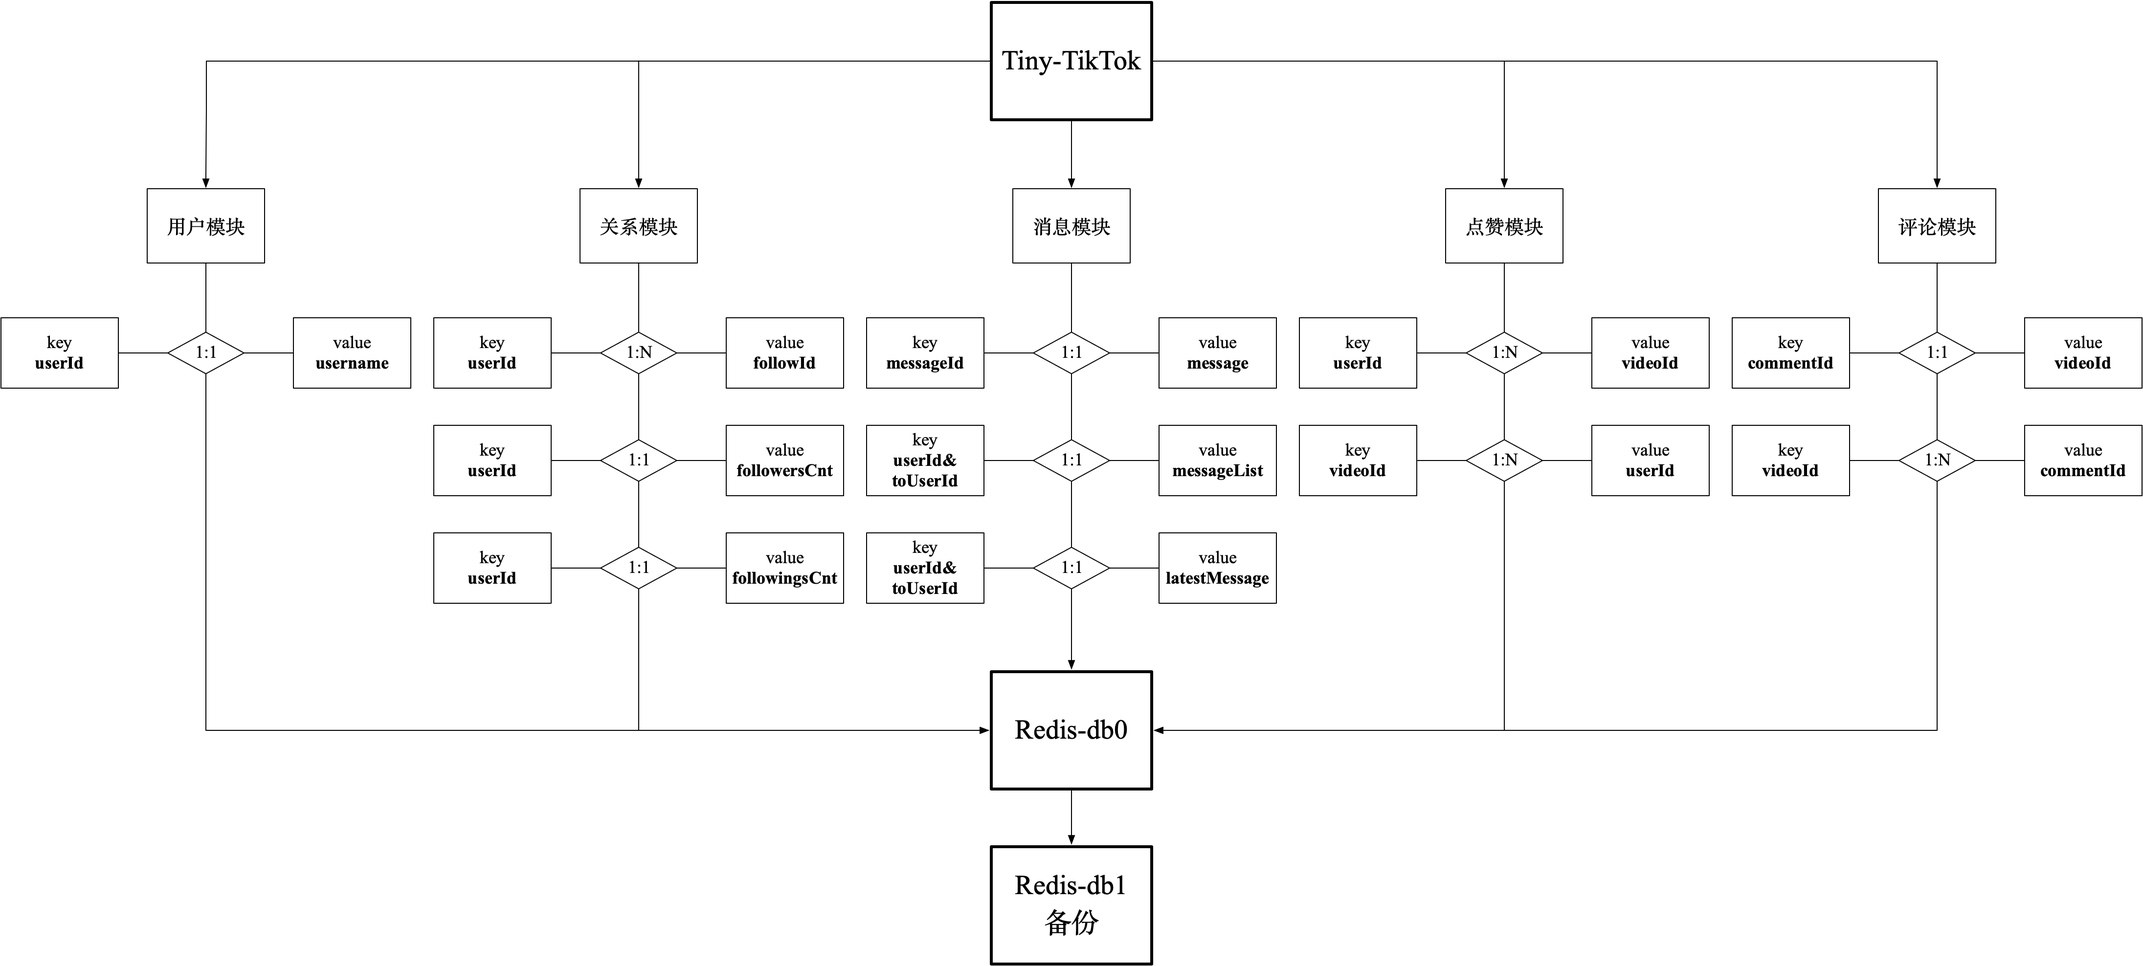
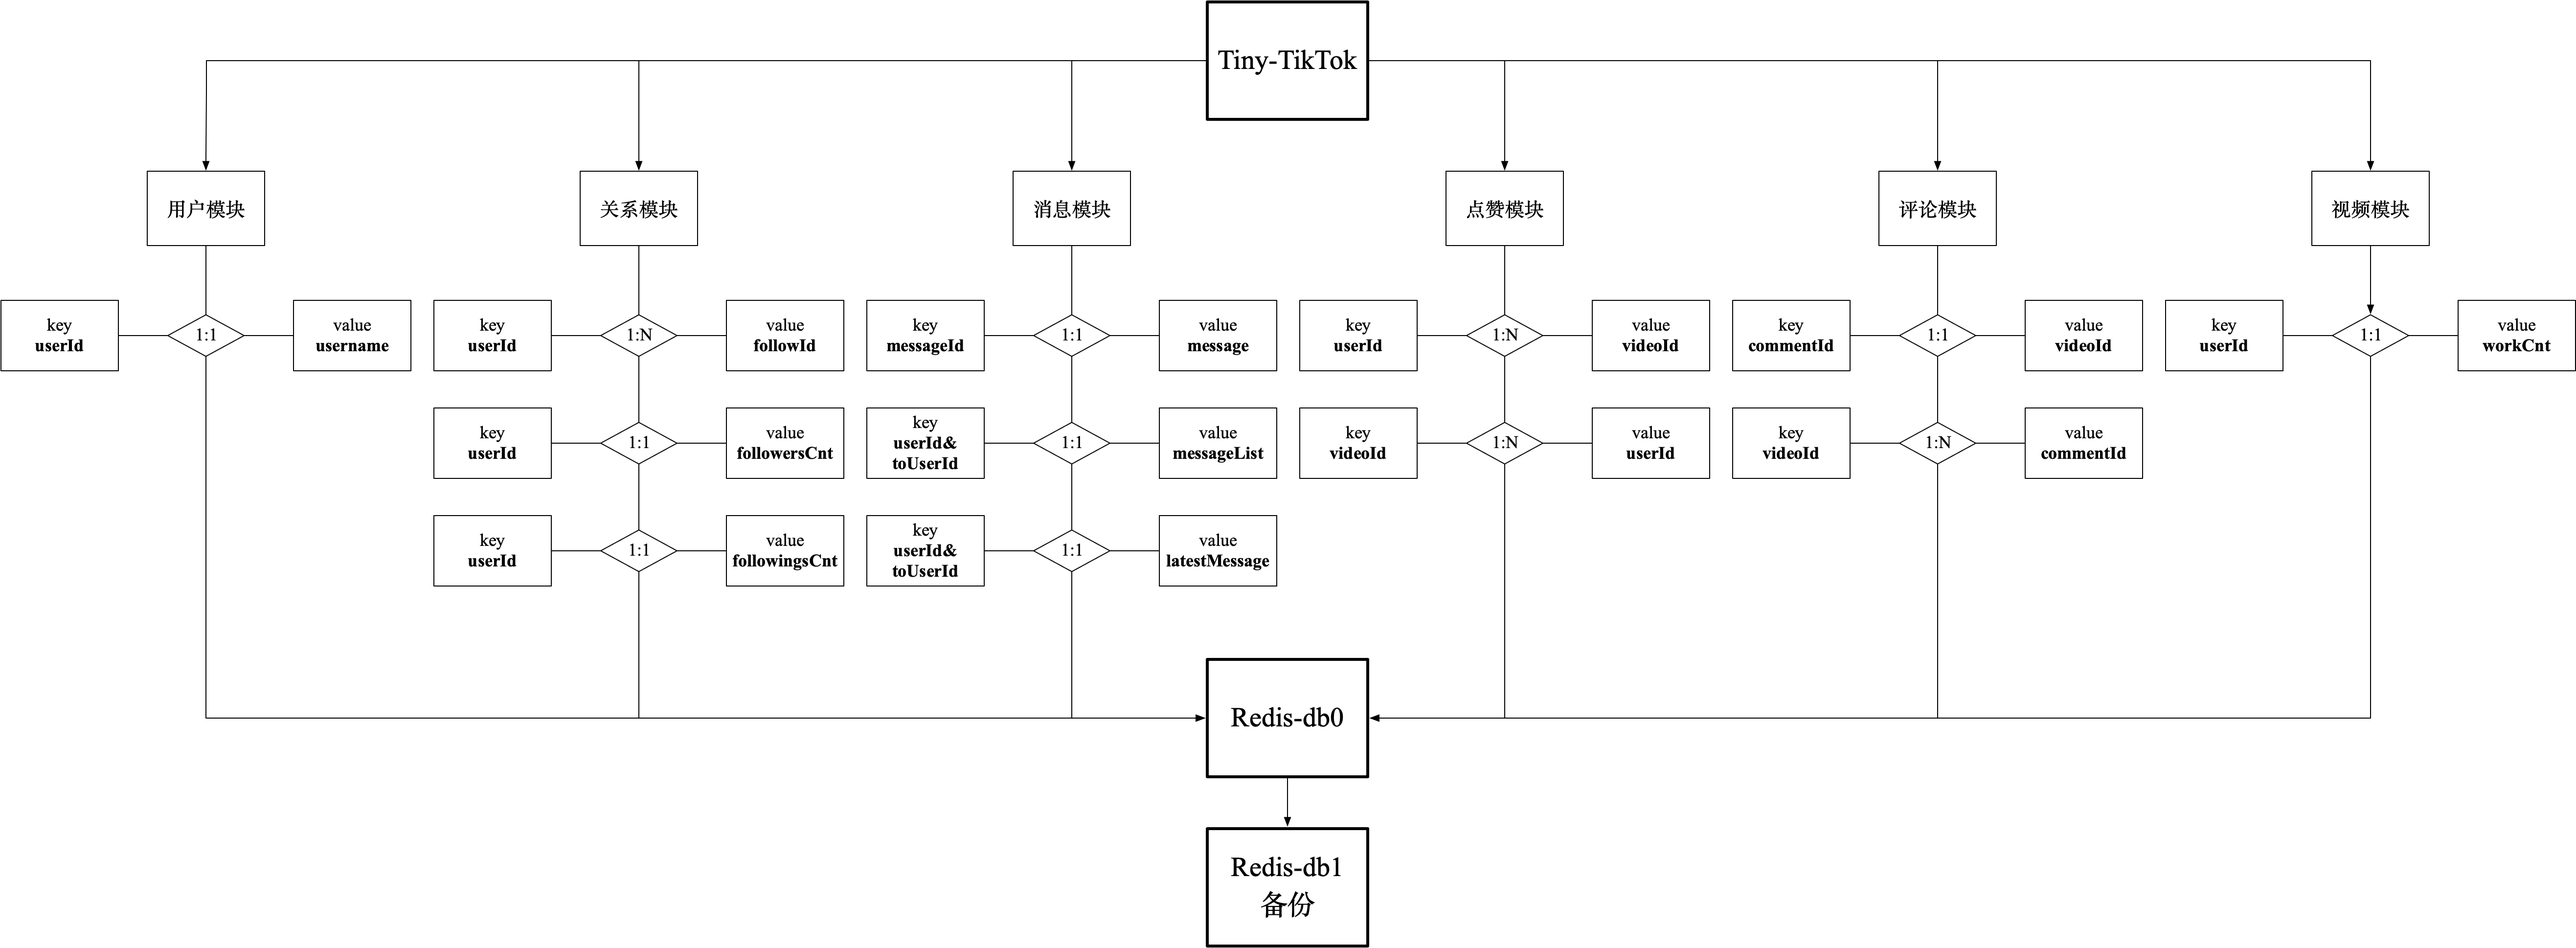
20230220 qianlinyi 接口更新

diff --git a/controller/commentController.go b/controller/commentController.go
@@ -59,11 +59,14 @@ func CommentAction(c *gin.Context) {
 			CommentInfo: CommentInfo{
 				Id: commentId,
 				User: User{
-					Id:            userInfo.Id,
-					Name:          userInfo.Name,
-					FollowCount:   userInfo.FollowCount,
-					FollowerCount: userInfo.FollowerCount,
-					IsFollow:      usi.JudgeIsFollowById(userInfo.Id, video.AuthorId),
+					Id:             userInfo.Id,
+					Name:           userInfo.Name,
+					FollowCount:    userInfo.FollowCount,
+					FollowerCount:  userInfo.FollowerCount,
+					IsFollow:       usi.JudgeIsFollowById(userInfo.Id, video.AuthorId),
+					TotalFavorited: userInfo.TotalFavorited,
+					WorkCount:      userInfo.WorkCount,
+					FavoriteCount:  userInfo.FavoriteCount,
 				},
 				CommentText: text,
 				CreateDate:  t,
@@ -100,11 +103,14 @@ func CommentList(c *gin.Context) {
 		commonList = append(commonList, CommentInfo{
 			comment.Id,
 			User{
-				Id:            user.Id,
-				Name:          user.Name,
-				FollowCount:   user.FollowCount,
-				FollowerCount: user.FollowerCount,
-				IsFollow:      usi.JudgeIsFollowById(user.Id, video.AuthorId),
+				Id:             user.Id,
+				Name:           user.Name,
+				FollowCount:    user.FollowCount,
+				FollowerCount:  user.FollowerCount,
+				IsFollow:       usi.JudgeIsFollowById(user.Id, video.AuthorId),
+				TotalFavorited: user.TotalFavorited,
+				WorkCount:      user.WorkCount,
+				FavoriteCount:  user.FavoriteCount,
 			},
 			comment.CommentText,
 			comment.CreateDate,

diff --git a/controller/userController.go b/controller/userController.go
@@ -63,7 +63,6 @@ func Login(c *gin.Context) {
 
 // UserInfo GET /douyin/user/ 用户信息
 func UserInfo(c *gin.Context) {
-	vsi := service.VideoServiceImpl{}
 	user_id := c.Query("user_id")
 	id, _ := strconv.ParseInt(user_id, 10, 64)
 	usi := service.UserServiceImpl{}
@@ -72,8 +71,7 @@ func UserInfo(c *gin.Context) {
 			Response: Response{StatusCode: 1, StatusMsg: "User doesn't exist"},
 		})
 	} else {
-		currentUserName := c.GetString("username")
-		user := usi.QueryUserByName(currentUserName)
+		currentUserId := c.GetInt64("id")
 		c.JSON(http.StatusOK, UserResponse{
 			Response: Response{StatusCode: 0},
 			User: User{
@@ -81,10 +79,10 @@ func UserInfo(c *gin.Context) {
 				userResp.Name,
 				userResp.FollowCount,
 				userResp.FollowerCount,
-				usi.JudgeIsFollowById(user.Id, id),
-				vsi.CountWorks(userResp.Id),
-				0,
-				0,
+				usi.JudgeIsFollowById(currentUserId, userResp.Id),
+				userResp.TotalFavorited,
+				userResp.WorkCount,
+				userResp.FavoriteCount,
 			},
 		})
 	}

diff --git a/service/userServiceImpl.go b/service/userServiceImpl.go
@@ -57,6 +57,8 @@ func (UserServiceImpl) QueryUserById(id int64) dao.User {
 // QueryUserRespById 根据id获取UserResp对象
 func (UserServiceImpl) QueryUserRespById(id int64) (dao.UserResp, error) {
 	rsi := RelationServiceImpl{}
+	lsi := LikeServiceImpl{}
+	vsi := VideoServiceImpl{}
 	userInfo := dao.UserResp{}
 	user, err := dao.QueryUserById(id)
 	if err != nil {
@@ -67,6 +69,9 @@ func (UserServiceImpl) QueryUserRespById(id int64) (dao.UserResp, error) {
 	userInfo.FollowCount = rsi.CountFollowings(id)  // 统计关注博主的数量
 	userInfo.Id = user.Id
 	userInfo.Name = user.Name
+	userInfo.TotalFavorited = lsi.TotalLiked(id)
+	userInfo.FavoriteCount, _ = lsi.LikeVideoCount(id)
+	userInfo.WorkCount = vsi.CountWorks(id)
 	return userInfo, err
 }
 

diff --git a/service/videoServiceImpl.go b/service/videoServiceImpl.go
@@ -29,13 +29,13 @@ func (VideoServiceImpl) QueryVideoDetailByVideoId(videoId int64, queryUserId int
 	usi := UserServiceImpl{}
 	csi := CommentServiceImpl{}
 	videoDetail := dao.VideoDetail{}
-	video, err := dao.QueryVideoById(videoId)
-	if err != nil {
+	video, err1 := dao.QueryVideoById(videoId)
+	if err1 != nil {
 		log.Println("Video not found!")
 		return videoDetail, time.Time{}
 	}
-	userResp, err := usi.QueryUserRespById(video.AuthorId)
-	if err != nil {
+	userResp, err2 := usi.QueryUserRespById(video.AuthorId)
+	if err2 != nil {
 		log.Println("QueryUser not found!")
 		return videoDetail, time.Time{}
 	}

diff --git a/controller/videoController.go b/controller/videoController.go
@@ -27,7 +27,7 @@ type VideoListResponse struct {
 	VideoList []Video `json:"video_list"`
 }
 
-// Feed GET/douyin/feed/ 视频流接口
+// Feed GET /douyin/feed/ 视频流接口
 func Feed(c *gin.Context) {
 	vsi := service.VideoServiceImpl{}
 	queryUserId := c.GetInt64("id")
@@ -140,7 +140,7 @@ func Publish(c *gin.Context) {
 	})
 }
 
-// PublishList GET/douyin/publish/list/ 发布列表
+// PublishList GET /douyin/publish/list/ 发布列表
 func PublishList(c *gin.Context) {
 	vsi := service.VideoServiceImpl{}
 	queryUserId := c.GetInt64("id")
